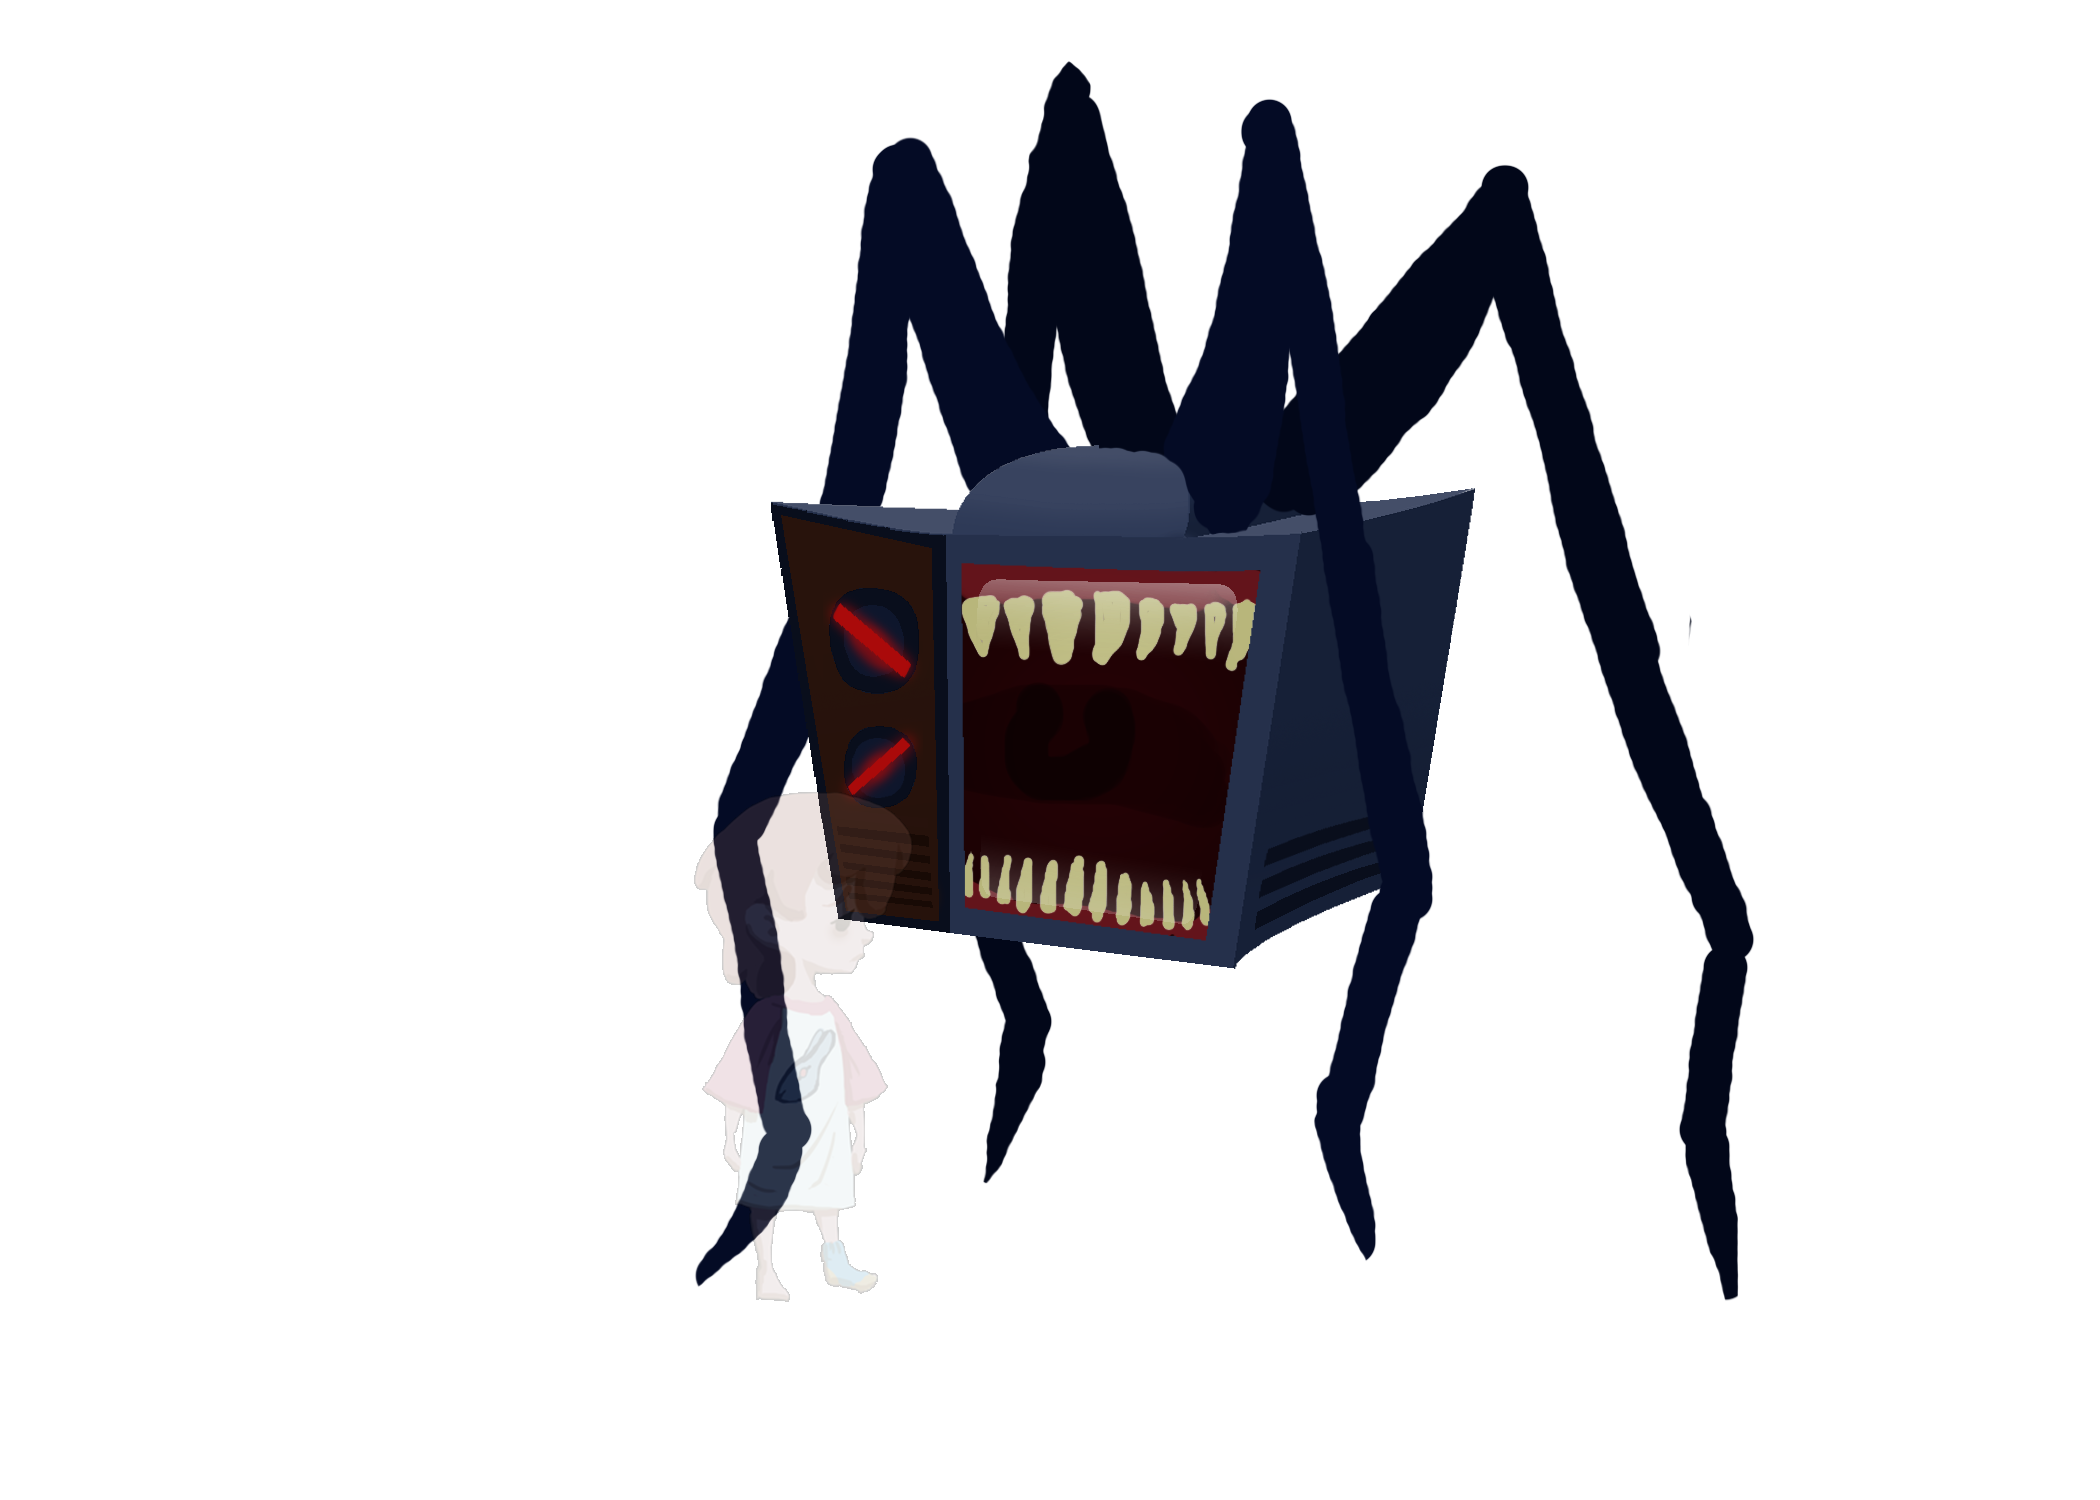
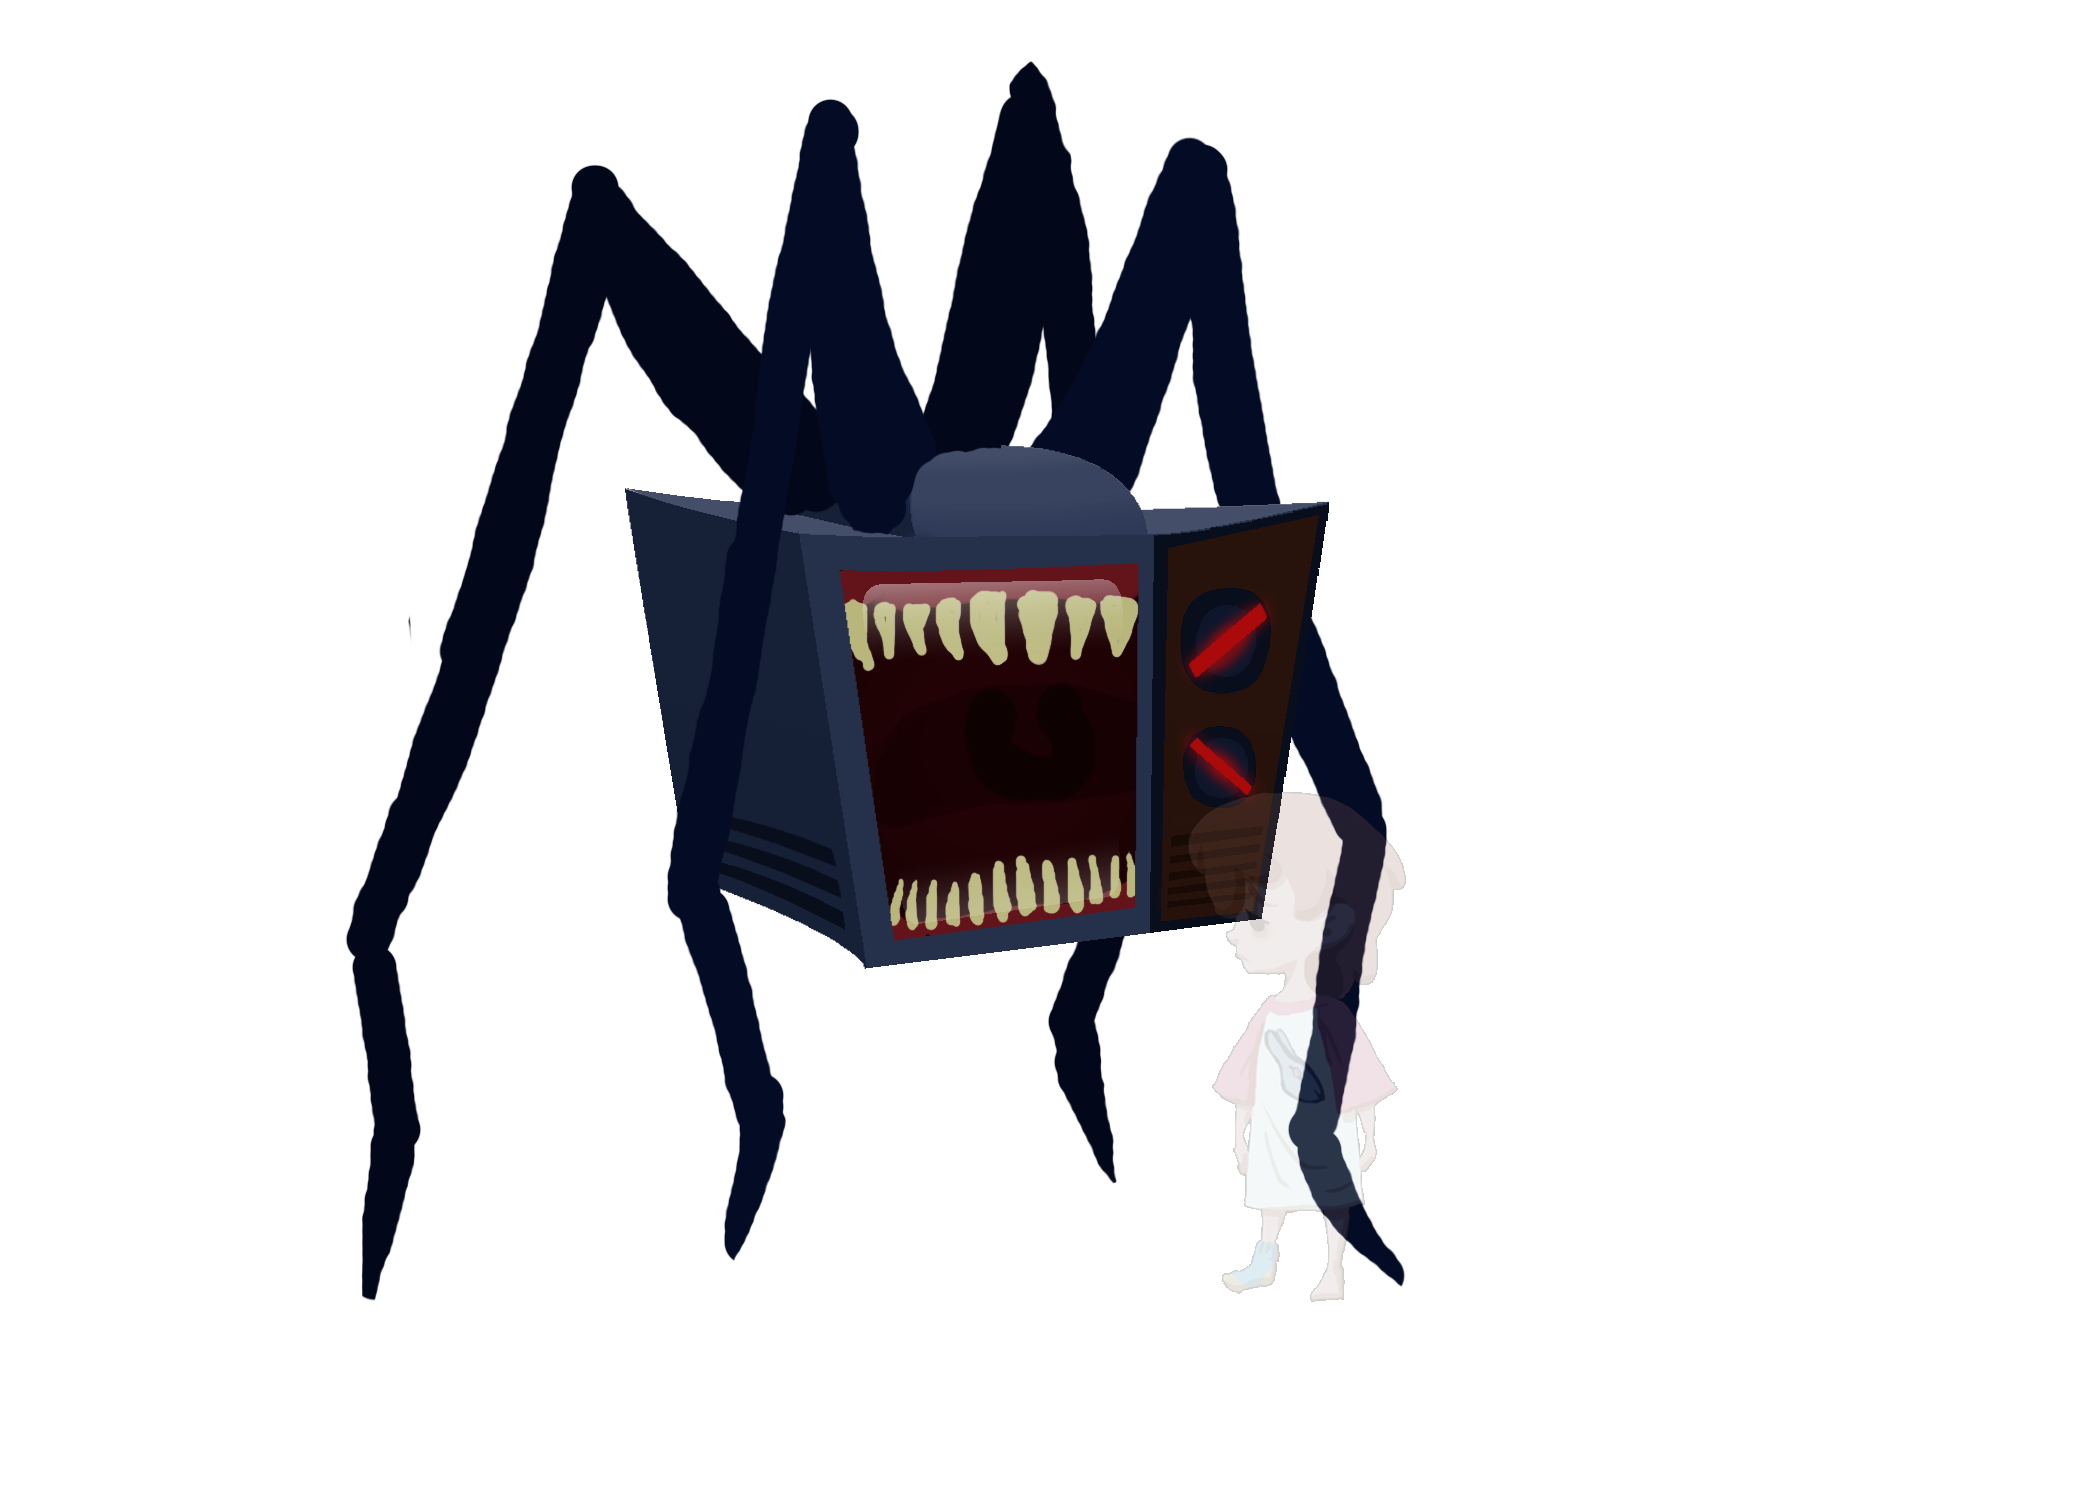
TV kill frames synced

Changed region(s): [[0.1548, 0.0307, 0.8357, 0.8587]]

diff --git a/Assets/Scripts/Monster/ChasingMonster.cs b/Assets/Scripts/Monster/ChasingMonster.cs
@@ -243,6 +243,8 @@ public class ChasingMonster : MonoBehaviour
             //player.chasingMonsterScript = this;
             // Stop the monster; it will not be able to return to the normal speed.
             speedNormal = speedChasing = 0;
+            player.SetInvisible();
+            anim.SetBool("Kill", true);
             StartCoroutine("StartMovement");
 
             //If monster is facing left and the player is behind the monster OR monster is facing
@@ -270,7 +272,13 @@ public class ChasingMonster : MonoBehaviour
         yield return new WaitForSeconds(2);
         speedNormal = speedNormalDefault;
         speedChasing = speedChasingDefault;
+        anim.SetBool("Kill", false);
         yield return null;
+    }
+    public void KillPlayer()
+    {
+        player.isAlive = false;
+
     }
 
 }

diff --git a/Assets/Scripts/Player/PlayerControl.cs b/Assets/Scripts/Player/PlayerControl.cs
@@ -320,10 +320,17 @@ public class PlayerControl : MonoBehaviour
         //if player colliders with an enemy and is not hidden
         if (col.gameObject.tag == "PatrolEnemy" && hide == false)
         {
-            //player is dead
-            isAlive = false;
-            //prevent player from moving
-            normalSpeed = 0f;
+            if (col.gameObject.name == "ChasingEnemy")
+            {
+                normalSpeed = 0f;
+            }
+            else
+            {
+                //player is dead
+                isAlive = false;
+                //prevent player from moving
+                normalSpeed = 0f;
+            }
         }
        
         //level warp
